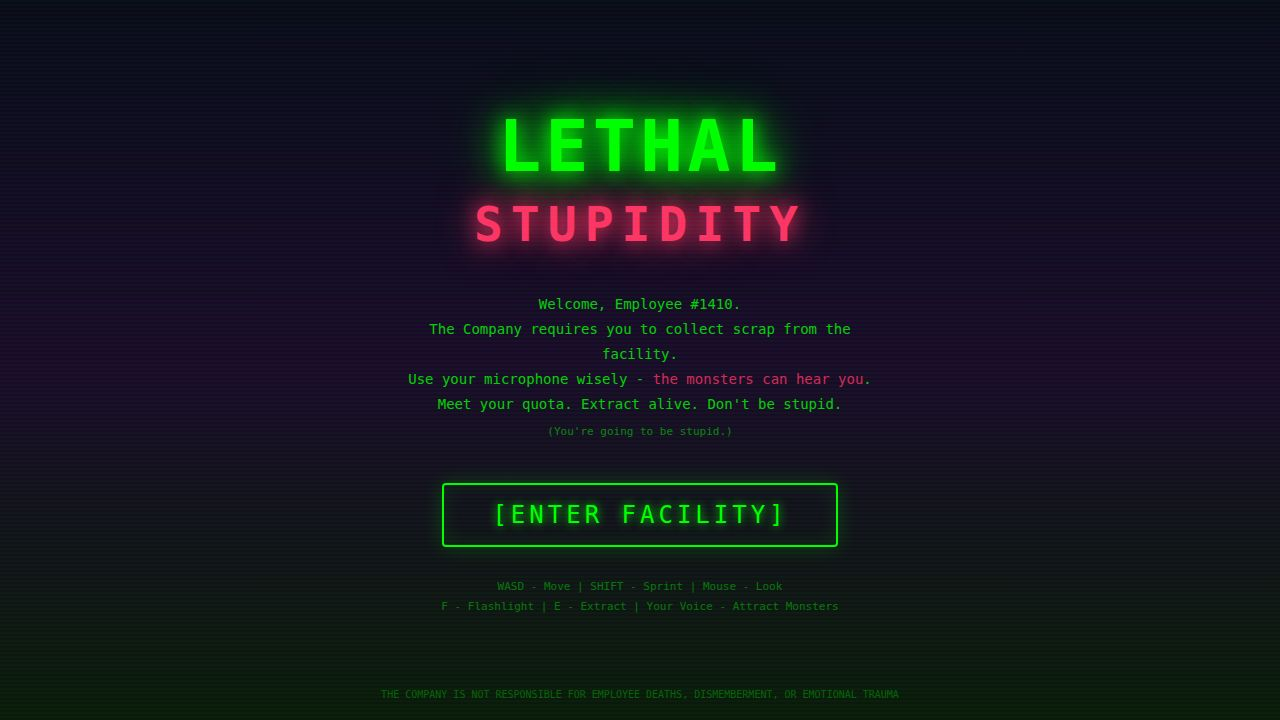
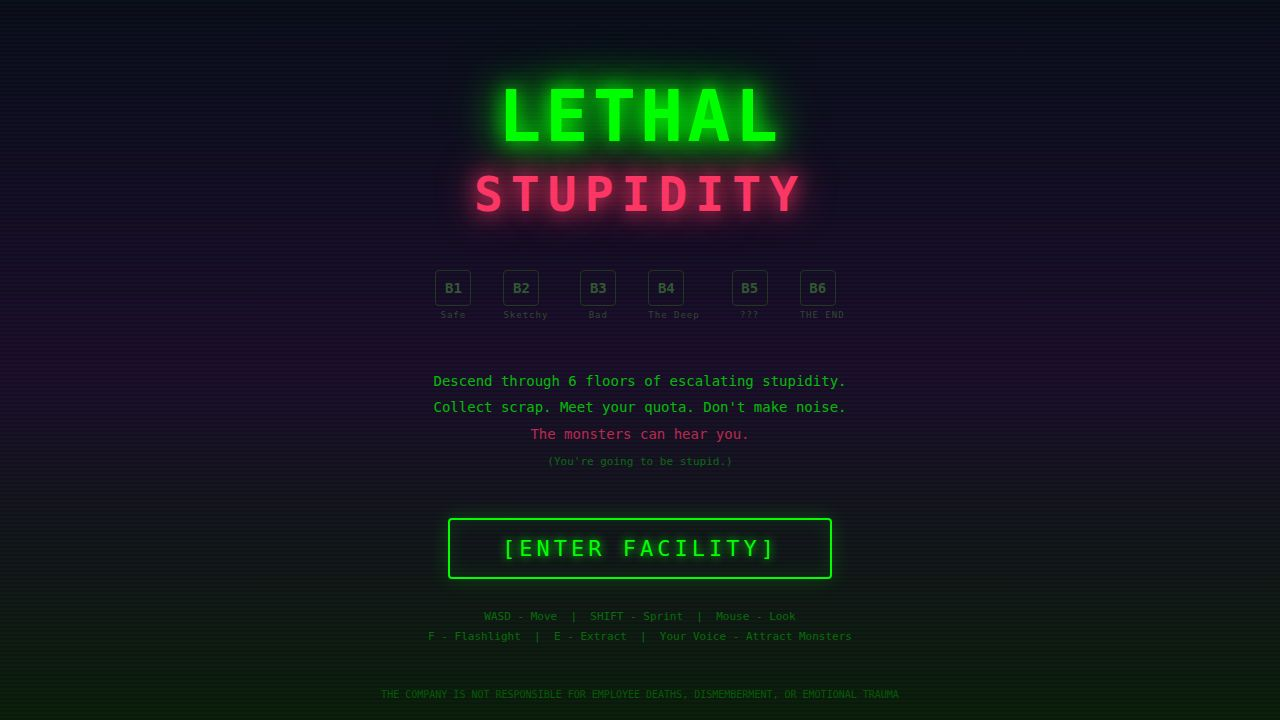
Improve visibility and flashlight performance in the game environment
Adjusted lighting and fog in GameScene.tsx, increased ceiling light intensity and reduced flickering in FacilityMap.tsx, modified flashlight target distance and light properties in Flashlight.tsx, and updated monster rotation animations in MonsterEntity.tsx.

Replit-Commit-Author: Agent
Replit-Commit-Session-Id: 2eb93892-f091-407f-82bf-ba656ff65cca
Replit-Commit-Checkpoint-Type: full_checkpoint
Replit-Commit-Event-Id: fbd86ddf-7578-42cf-a7a3-2d9ebbf26d02
Replit-Commit-Screenshot-Url: https://storage.googleapis.com/screenshot-production-us-central1/9e40c53f-ad90-450e-9cfe-3c9df5f32315/2eb93892-f091-407f-82bf-ba656ff65cca/KCEtLNh
Replit-Helium-Checkpoint-Created: true

Changed region(s): [[0.3438, 0.0917, 0.6562, 0.3667], [0.3438, 0.6417, 0.6562, 0.8861], [0.3125, 0.3972, 0.6875, 0.6111]]

diff --git a/artifacts/lethal-stupidity/src/game/Flashlight.tsx b/artifacts/lethal-stupidity/src/game/Flashlight.tsx
@@ -19,19 +19,19 @@ export function Flashlight() {
       lightRef.current.position.copy(camera.position);
       lightRef.current.position.y -= 0.1;
       if (lightRef.current.target) {
-        lightRef.current.target.position.copy(camera.position).add(dir.clone().multiplyScalar(20));
+        lightRef.current.target.position.copy(camera.position).add(dir.clone().multiplyScalar(12));
         lightRef.current.target.updateMatrixWorld();
       }
     }
     if (lightRef2.current) {
       lightRef2.current.position.copy(camera.position);
       if (lightRef2.current.target) {
-        lightRef2.current.target.position.copy(camera.position).add(dir.clone().multiplyScalar(20));
+        lightRef2.current.target.position.copy(camera.position).add(dir.clone().multiplyScalar(12));
         lightRef2.current.target.updateMatrixWorld();
       }
     }
     if (targetRef.current) {
-      targetRef.current.position.copy(camera.position).add(dir.multiplyScalar(20));
+      targetRef.current.position.copy(camera.position).add(dir.multiplyScalar(12));
       targetRef.current.updateMatrixWorld();
     }
   });
@@ -46,23 +46,23 @@ export function Flashlight() {
         target={targetRef.current ?? undefined}
         angle={0.42}
         penumbra={0.5}
-        intensity={6}
-        distance={40}
+        intensity={8}
+        distance={28}
         color="#ffe8c8"
         castShadow
         shadow-mapSize-width={512}
         shadow-mapSize-height={512}
         shadow-bias={-0.001}
         shadow-camera-near={0.5}
-        shadow-camera-far={35}
+        shadow-camera-far={28}
       />
       <spotLight
         ref={lightRef2}
         target={targetRef.current ?? undefined}
-        angle={0.8}
-        penumbra={1}
-        intensity={1.5}
-        distance={20}
+        angle={0.58}
+        penumbra={0.95}
+        intensity={0.9}
+        distance={16}
         color="#fff0e0"
         castShadow={false}
       />

diff --git a/artifacts/lethal-stupidity/src/game/FacilityMap.tsx b/artifacts/lethal-stupidity/src/game/FacilityMap.tsx
@@ -66,10 +66,10 @@ function CeilingLight({ position, withShadow = false }: { position: [number, num
   const flickerRef = useRef<THREE.PointLight>(null);
   const meshRef = useRef<THREE.Mesh>(null);
   const stateRef = useRef({
-    baseIntensity: 1.5 + Math.random() * 1.5,
+    baseIntensity: 2.2 + Math.random() * 1.2,
     flickerTimer: 0,
-    flickerInterval: 2 + Math.random() * 8,
-    isFlickering: Math.random() > 0.7,
+    flickerInterval: 3 + Math.random() * 10,
+    isFlickering: Math.random() > 0.85,
   });
 
   useFrame((_, delta) => {
@@ -82,11 +82,7 @@ function CeilingLight({ position, withShadow = false }: { position: [number, num
 
       const flicker = Math.random();
       if (flickerRef.current) {
-        flickerRef.current.intensity = flicker > 0.3 ? s.baseIntensity : Math.random() * 0.3;
-      }
-      if (meshRef.current) {
-        const mat = meshRef.current.material as THREE.MeshStandardMaterial;
-        mat.emissiveIntensity = flicker > 0.3 ? 0.8 : 0.05;
+        flickerRef.current.intensity = flicker > 0.18 ? s.baseIntensity : Math.random() * 0.25;
       }
 
       if (Math.random() > 0.9) {
@@ -106,7 +102,7 @@ function CeilingLight({ position, withShadow = false }: { position: [number, num
         <meshStandardMaterial
           color="#ffffcc"
           emissive="#ffffcc"
-          emissiveIntensity={0.8}
+          emissiveIntensity={1.25}
           roughness={0.1}
         />
       </mesh>

diff --git a/artifacts/lethal-stupidity/src/game/MonsterEntity.tsx b/artifacts/lethal-stupidity/src/game/MonsterEntity.tsx
@@ -84,10 +84,7 @@ export function MonsterEntity({ monster }: { monster: Monster }) {
 
     group.position.set(monster.position.x, monster.position.y, monster.position.z);
 
-    const target =
-      monster.state === "chasing" || monster.state === "alerted"
-        ? monster.patrolTarget
-        : monster.patrolTarget;
+    const target = monster.patrolTarget;
 
     if (target) {
       const dir = new THREE.Vector3().subVectors(target, monster.position);
@@ -102,11 +99,11 @@ export function MonsterEntity({ monster }: { monster: Monster }) {
     if (monster.state === "chasing") {
       const bounce = Math.abs(Math.sin(t * 10)) * 0.25;
       group.position.y = monster.position.y + bounce;
-      group.rotation.z = Math.sin(t * 8) * 0.15;
+      group.rotation.z = Math.sin(t * 8) * 0.08;
     } else if (monster.state === "alerted") {
-      group.rotation.z = Math.sin(t * 4) * 0.08;
+      group.rotation.z = Math.sin(t * 4) * 0.04;
     } else {
-      group.rotation.z = Math.sin(t * 1.5) * 0.03;
+      group.rotation.z = Math.sin(t * 1.5) * 0.015;
     }
   });
 

diff --git a/artifacts/lethal-stupidity/src/game/GameScene.tsx b/artifacts/lethal-stupidity/src/game/GameScene.tsx
@@ -129,8 +129,8 @@ export function GameScene() {
           }}
           style={{ width: "100%", height: "100%" }}
         >
-          <ambientLight intensity={0.04} color="#1a2244" />
-          <fog attach="fog" args={["#000608", 4, 35]} />
+          <ambientLight intensity={0.08} color="#2b3558" />
+          <fog attach="fog" args={["#05070c", 6, 28]} />
 
           <FacilityMap />
           <DustParticles />